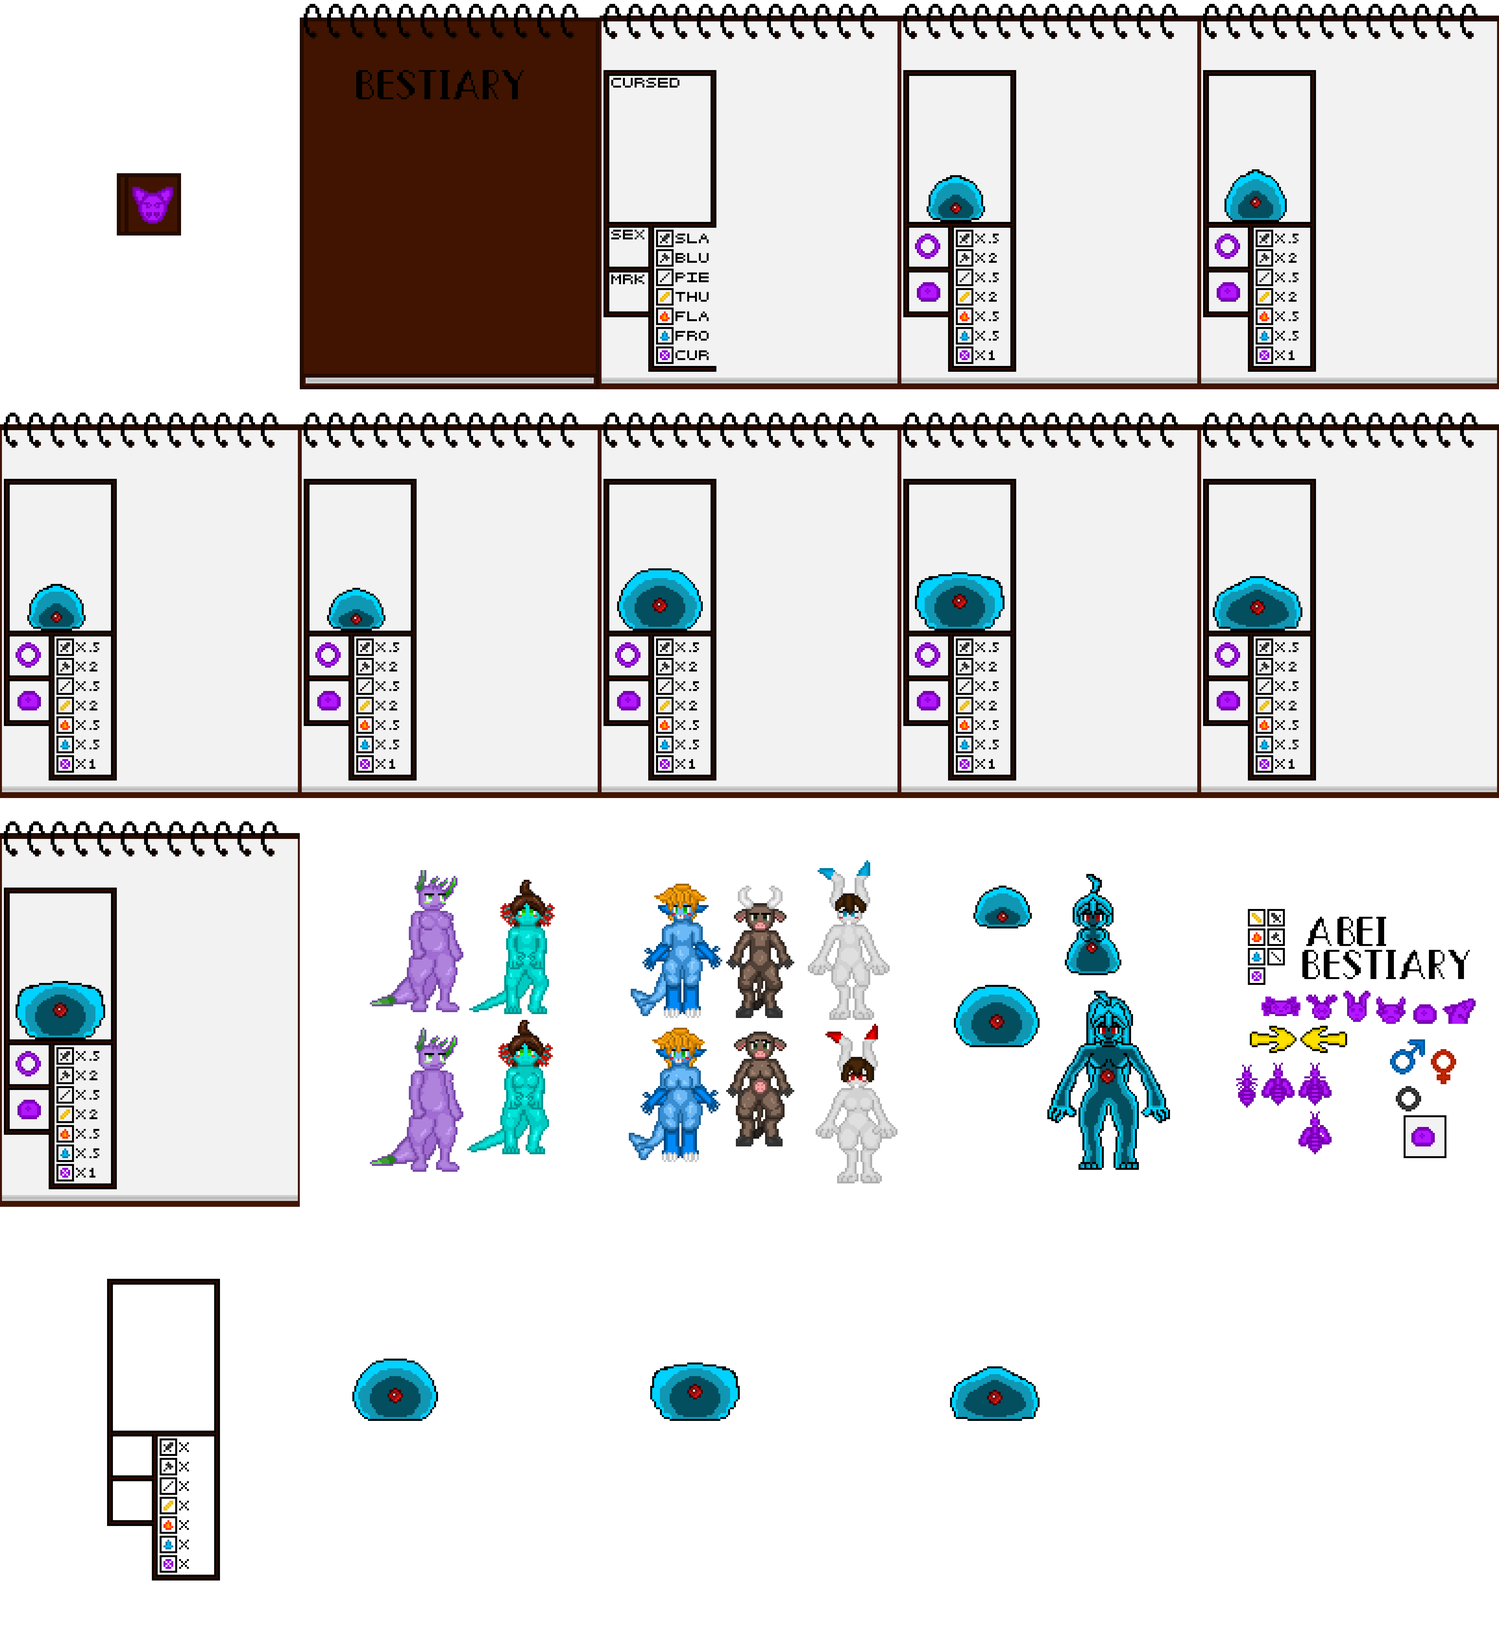
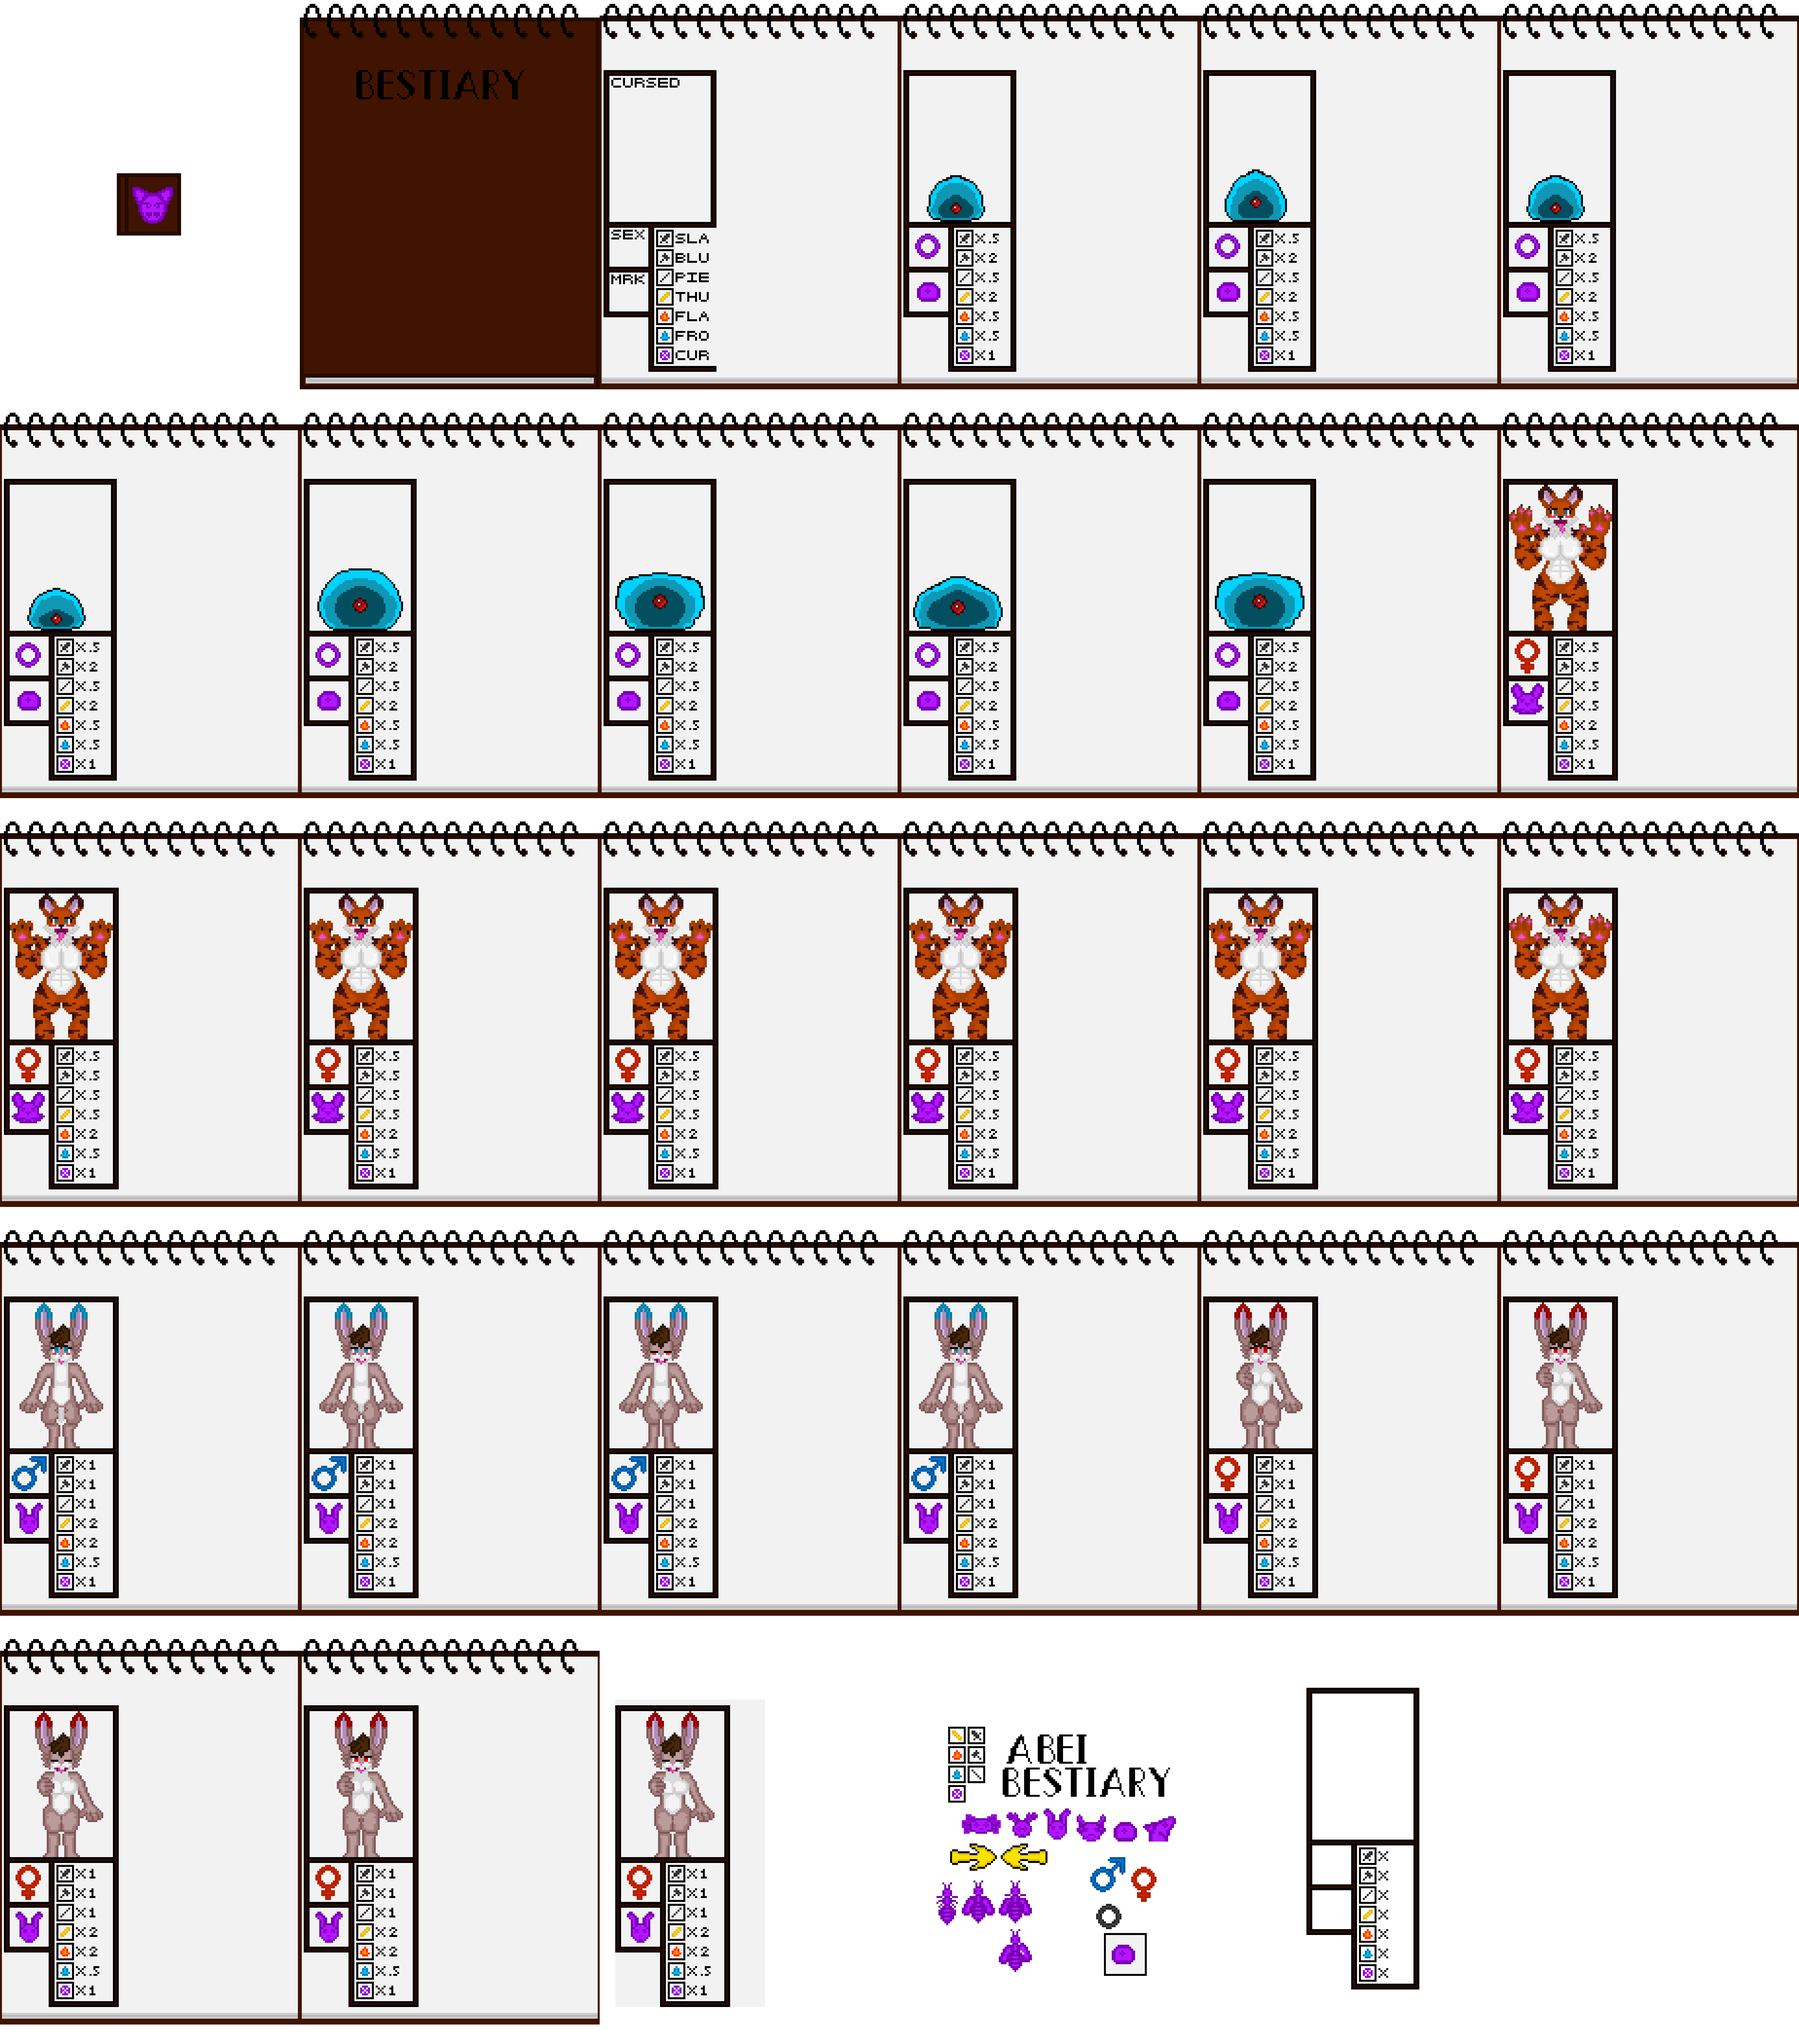
added bestiary entrys for tiger, and rabbits
added entrys and bestiary page animations for those enemys. also modifyed how entrys are added slightly

Changed region(s): [[0.0, 0.0, 1.0, 0.9968], [0.0623, 0.0623, 0.1247, 0.1558]]

diff --git a/scripts/uiScripts/inventoryScripts/bestiary.js b/scripts/uiScripts/inventoryScripts/bestiary.js
@@ -19,6 +19,9 @@ class bestiary extends Phaser.Physics.Arcade.Sprite {
     this.anims.create({ key: 'back', frames: this.anims.generateFrameNames('bestiary', { start: 2, end: 2 }), frameRate: 10, repeat: -1 });
     this.anims.create({ key: 'blueSlime', frames: this.anims.generateFrameNames('bestiary', { start: 3, end: 6 }), frameRate: 7, repeat: -1 });
     this.anims.create({ key: 'largeBlueSlime', frames: this.anims.generateFrameNames('bestiary', { start: 7, end: 10 }), frameRate: 7, repeat: -1 });
+    this.anims.create({ key: 'femaleTiger', frames: this.anims.generateFrameNames('bestiary', { start: 11, end: 17 }), frameRate: 7, repeat: -1 });
+    this.anims.create({ key: 'maleRabbit', frames: this.anims.generateFrameNames('bestiary', { start: 18, end: 21 }), frameRate: 7, repeat: -1 });
+    this.anims.create({ key: 'femaleRabbit', frames: this.anims.generateFrameNames('bestiary', { start: 22, end: 25 }), frameRate: 7, repeat: -1 });
     // the default animation for bestiary should be closed.
     this.anims.play("closed");
 
@@ -52,6 +55,18 @@ class bestiary extends Phaser.Physics.Arcade.Sprite {
       largeBlueSlime: {
         title: "BLUE SLIME LARGE",
         summary: "THIS SLIME ACTS VERY SIMILIAR TO IT`S SMALLER COUNTERPART. HOWEVER THIS SLIME IS MUCH LARGER AND MORE DAGEROUS.IT IS ABLE TO DISOLVE PREY AT A FASTER RATE.",
+      },
+      femaleTiger: {
+        title: "FEMALE TIGER",
+        summary: "THIS LARGE CARIVORE IS AN AMBUSH PREDATOR. OPTING TO HIDE UNTIL IT SPOTS PREY BEFORE CHASING THEM DOWN AND DEVOWERING THEM WHOLE. HOWEVER IT IS MORE DOCILE IF IT IS ALREADY FEAD ON SOMETHING.",
+      },
+      maleRabbit: {
+        title: "MALE RABBIT",
+        summary: "THIS HERBAVORE CAN BE FOUND IN PLACES WHERE CARROTS GROW. ABLE TO JUMP DECENTLY HIGH, THE MALES OF THIS GROUP USE TO PENITRATION AS THERE MAIN MEANS OF APPLYING THERE CURSE.  ",
+      },
+      femaleRabbit: {
+        title: "FEMALE RABBIT",
+        summary: "THIS HERBAVORE CAN BE FOUND IN PLACES WHERE CARROTS GROW. ABLE TO JUMP DECENTLY HIGH, THE FEMALES OF THIS GROUP OFTEN TACKLE THERE VICTIMS AND HUMP THEM TO APPLY THERE CURSE. ",
       },
 
       back: {

diff --git a/scripts/sceneScripts/gameOver.js b/scripts/sceneScripts/gameOver.js
@@ -149,7 +149,7 @@ class gameOver extends allSceneFunctions {
                 this.enemy.largeSlimeGameOver();
                 this.enemy.y-500;
             
-            }else if(this.enemyThatDefeatedPlayer === "tiger"){
+            }else if(this.enemyThatDefeatedPlayer === "femaleTiger"){
                 this.enemy = new tiger(this,450, 560,this.playerSex);
                 this.enemy.gameOver();
                 this.enemy.y-500;
@@ -232,6 +232,7 @@ class gameOver extends allSceneFunctions {
                     console.log("save file detected, now setting player back to correct scene.");
                     console.log("gameoverThat.playerLocation",gameoverThat.playerLocation);
 
+                    let entryAdded = false;
                     //loop through of entrys the player has that was loaded from file
                     for(let [key,value] of Object.entries(gameoverThat.playerBestiaryData)){
 
@@ -239,8 +240,14 @@ class gameOver extends allSceneFunctions {
                         if(gameoverThat.enemyThatDefeatedPlayer === key){
                             console.log("found bestiary entry : ", key);
                             gameoverThat.playerBestiaryData[key] = 1;
+                            entryAdded = true;
                         }
-                      }
+                
+                    }
+
+                    if(entryAdded === false){
+                        gameoverThat.playerBestiaryData[gameoverThat.enemyThatDefeatedPlayer] = 1;
+                    }
 
                       //creates a object to hold data for scene transition
                         let playerDataObject = {

diff --git a/scripts/enemyScripts/rabbit.js b/scripts/enemyScripts/rabbit.js
@@ -601,16 +601,16 @@ class rabbit extends enemy {
     calcDamage(slice, blunt, pierce, heat, lightning, cold) {
         console.log("slice " + slice + " blunt " + blunt + " pierce " + pierce + " heat " + heat + " lightning " + lightning + " cold " + cold);
         if (slice > 0) {
-            this.enemyHP -= (slice / 2);
+            this.enemyHP -= (slice);
         }
         if (blunt > 0) {
-            this.enemyHP -= (blunt * 2);
+            this.enemyHP -= (blunt);
         }
         if (pierce > 0) {
-            this.enemyHP -= (pierce / 2);
+            this.enemyHP -= (pierce);
         }
         if (heat > 0) {
-            this.enemyHP -= (heat / 4);
+            this.enemyHP -= (heat * 4);
         }
         if (lightning > 0) {
             this.enemyHP -= (lightning * 2);

diff --git a/scripts/sceneScripts/allSceneFunctions.js b/scripts/sceneScripts/allSceneFunctions.js
@@ -446,7 +446,7 @@ validateSaveFile(dataObject){
       volume: 1,
       onomatopoeia: true
    };
-    
+   
     dataObject.settings = settings;
 
   }
@@ -458,18 +458,9 @@ makeSaveFile(playerObject,sex,saveslot){
   let playerBestiaryData = {
     blueSlime:0,
     largeBlueSlime:0,
-    axolotlMale:0,
-    axolotlfemale:0,
-    largePurpleSlugFemale:0,
-    largePurpleSlugMale:0,
-    rabbitfemale:0,
-    rabbitMale:0,
-    cowFemale:0,
-    cowMale:0,
-    blueSlimeHumanoidFemale:0,
-    blueSlimeHumanoidFemaleLarge:0,
-    sharkFemale:0,
-    sharkMale:0
+    femaleTiger:0,
+    maleRabbit:0,
+    femaleRabbit:0,
  };
 
  let playerSkillsData = {

diff --git a/scripts/enemyScripts/tiger.js b/scripts/enemyScripts/tiger.js
@@ -549,7 +549,7 @@ class tiger extends enemy {
         this.playerDefeated = true;
         
         skipIndicatorEmitter.emit(skipIndicator.activateSkipIndicator);
-        this.scene.enemyThatDefeatedPlayer = "tiger";
+        this.scene.enemyThatDefeatedPlayer = "femaleTiger";
 
         // if we start the player defeated animation then we need to set a few things.
         if (this.playerDefeatedAnimationStage === 0) {
